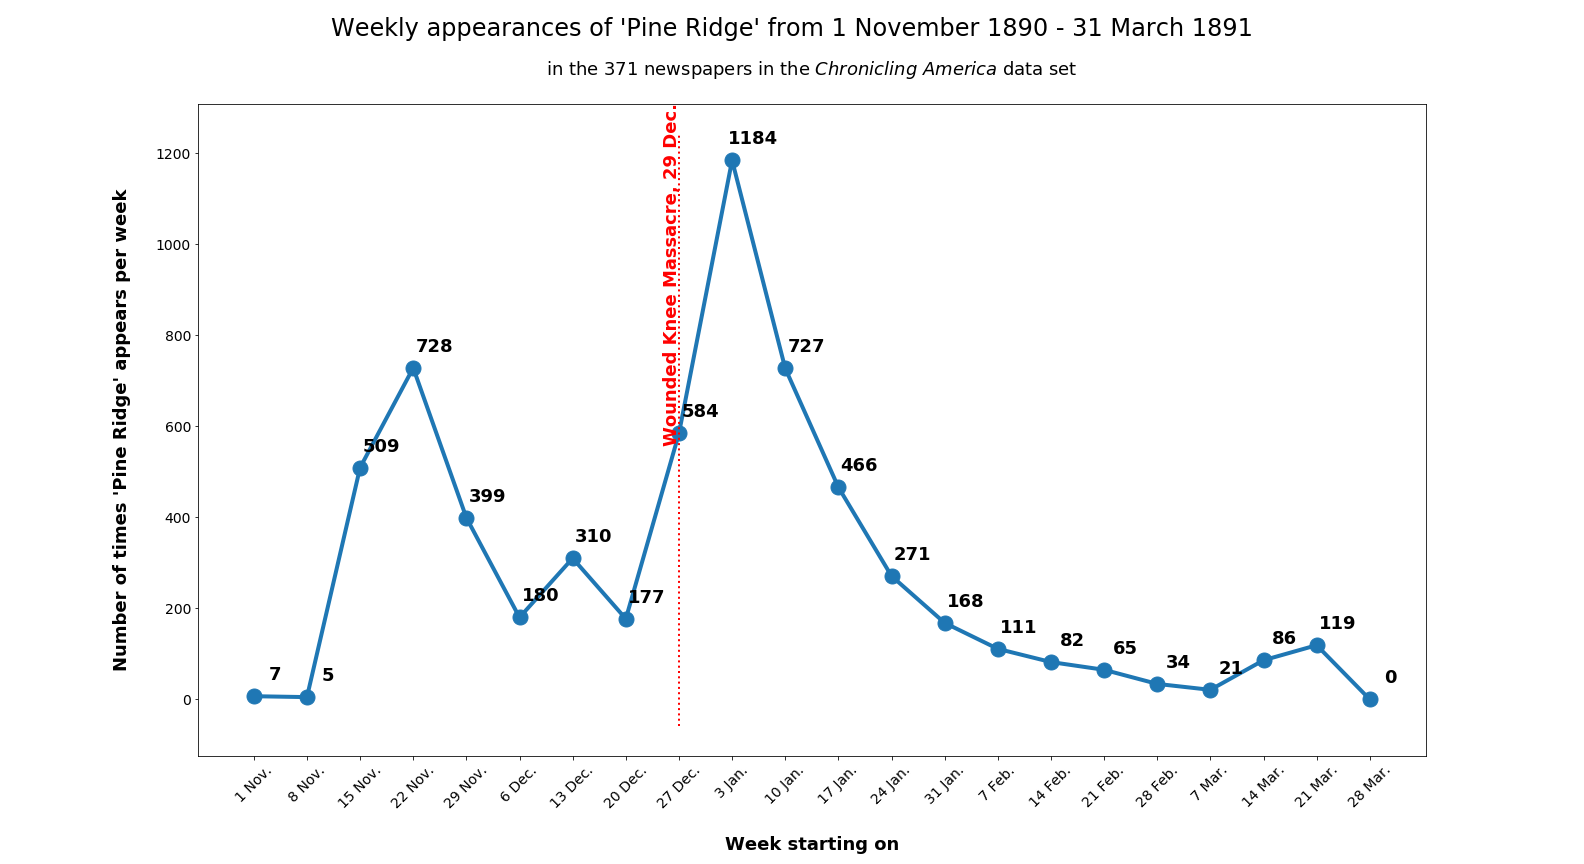
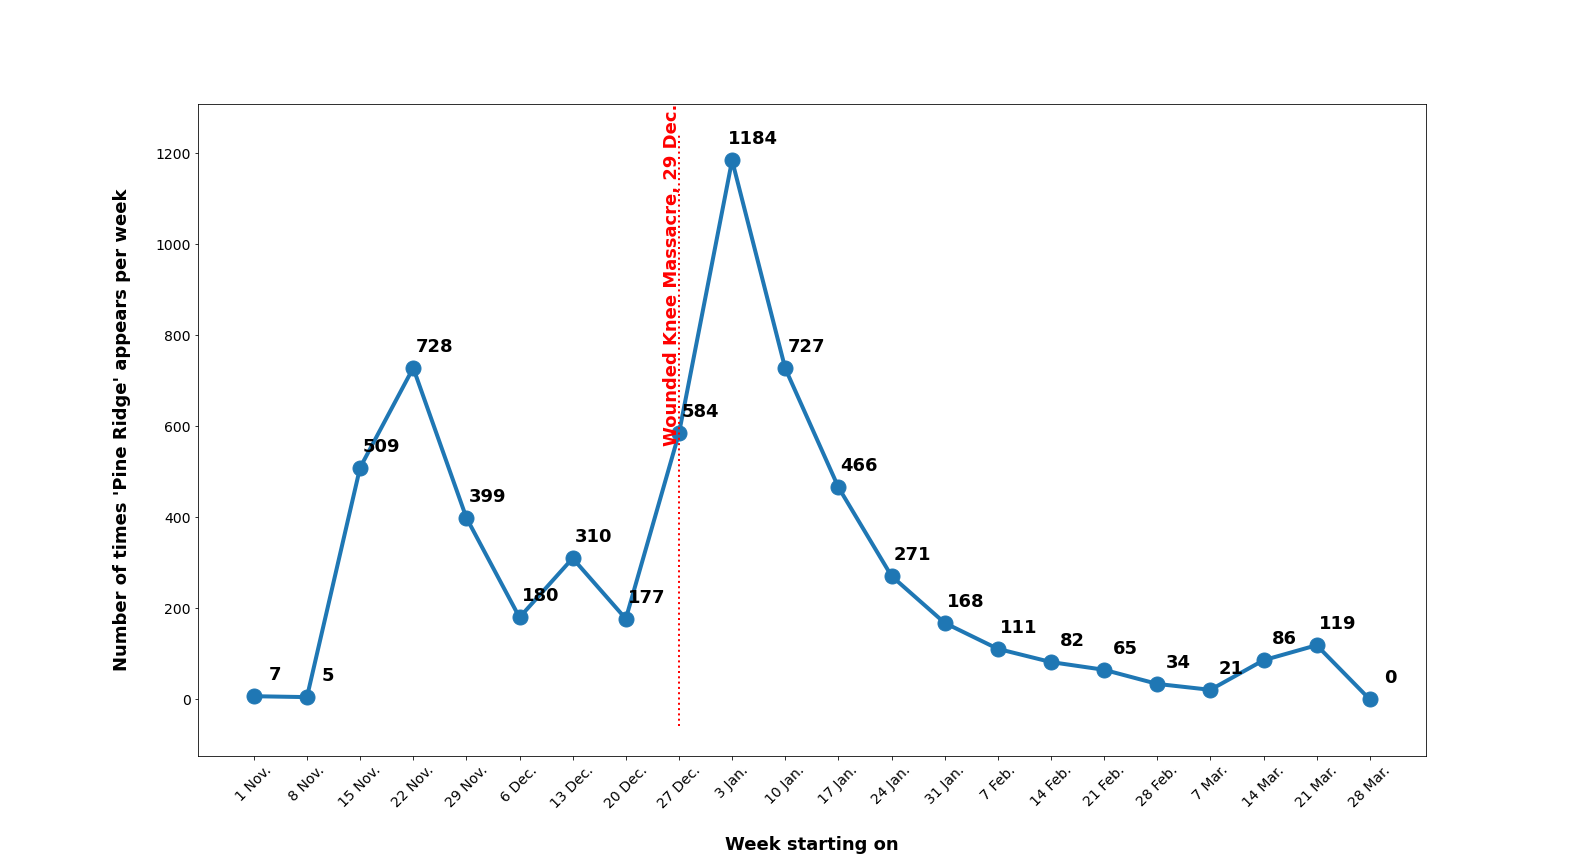
Remove title from graphs

diff --git a/visualize-terms.py b/visualize-terms.py
@@ -121,8 +121,8 @@ for term in terms:
     plt.xlabel('\nWeek starting on', fontweight='bold', fontsize=18)
     plt.ylabel(f'Number of times \'{terms_dict[term]}\' appears per week\n',
                fontweight='bold', fontsize=18)
-    plt.suptitle(f'Weekly appearances of \'{terms_dict[term]}\' from 1 November 1890 - 31 March 1891', fontsize=24)
-    plt.title(f'in the {len(newspapers)} newspapers in the $\itChronicling$ $\itAmerica$ data set\n', fontsize=18)
+    # plt.suptitle(f'Weekly appearances of \'{terms_dict[term]}\' from 1 November 1890 - 31 March 1891', fontsize=24)
+    # plt.title(f'in the {len(newspapers)} newspapers in the $\itChronicling$ $\itAmerica$ data set\n', fontsize=18)
     plt.text(7.7, y_dict[term], 'Wounded Knee Massacre, 29 Dec.', rotation=90, 
              color='red', fontsize=18, fontweight='bold')
     for date, counts in term_counts:
